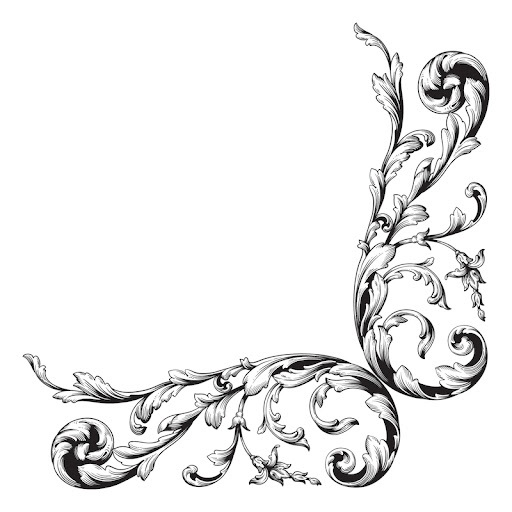
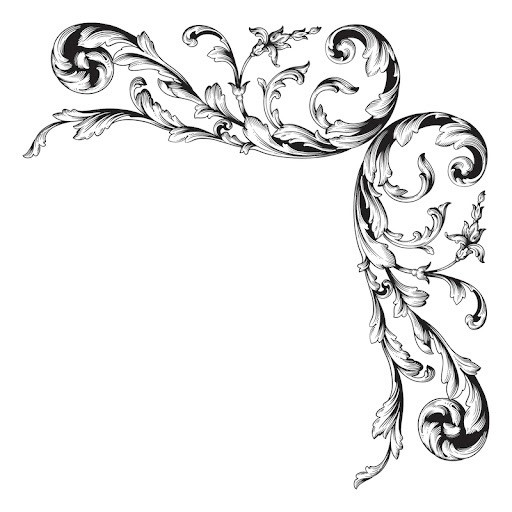
rotate picture. change sizing

Changed region(s): [[0.0938, 0.0312, 0.9688, 0.9688], [0.0312, 0.6875, 0.0938, 0.75], [0.0312, 0.25, 0.0938, 0.3125]]

diff --git a/styles/main.css b/styles/main.css
@@ -39,10 +39,12 @@ body {
     border-radius: 10px;
 }
 
-.banner-border {
+.banner-corner {
 position: absolute;
 right:0px;
-bottom:0px;
+top:0px;
+max-width: 20%;
+height: auto;
 }
 
 #title-image {
